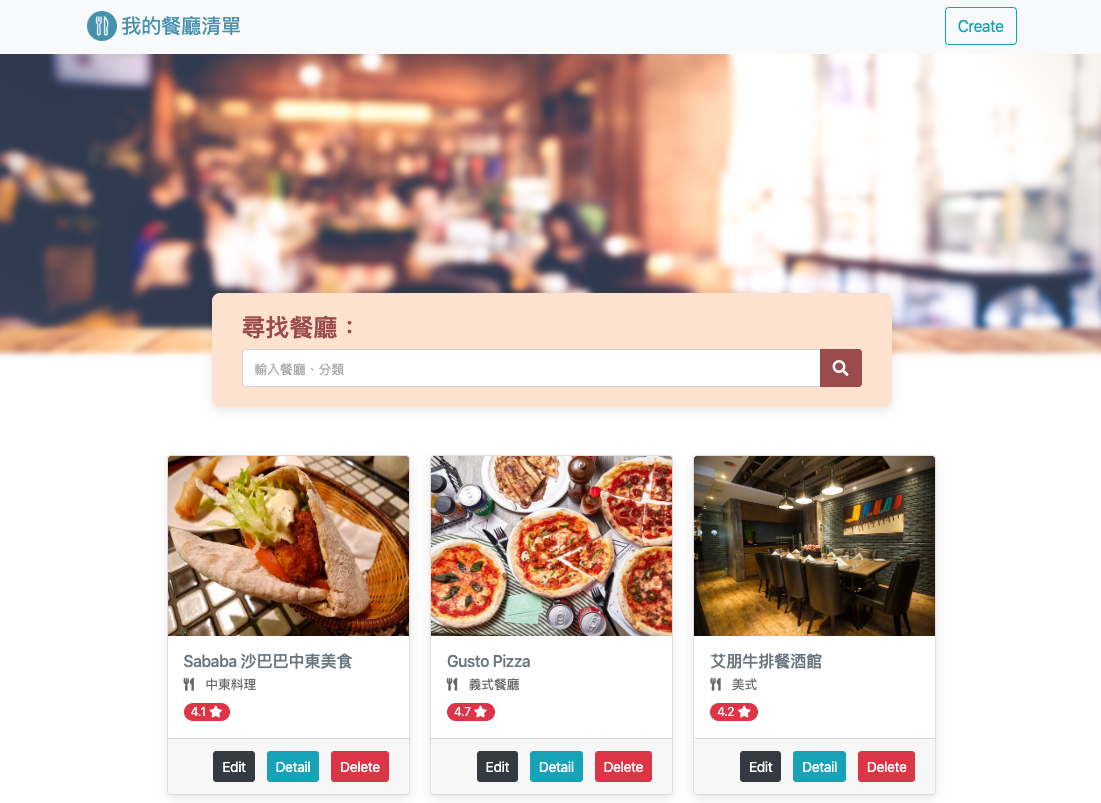
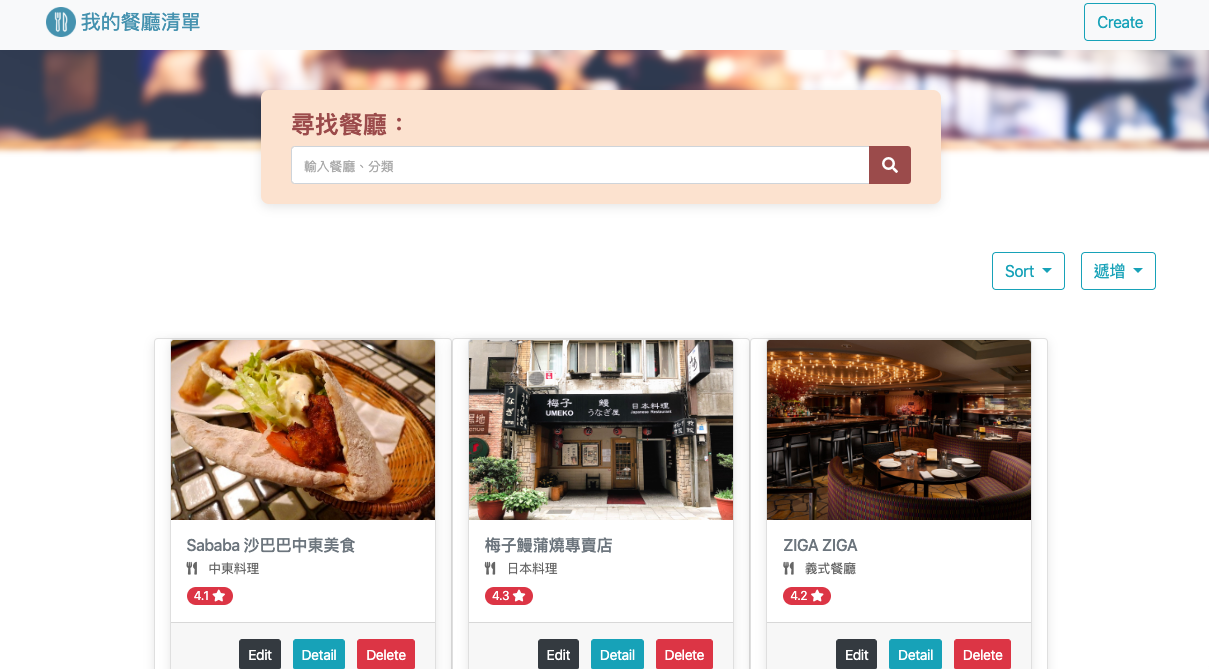
Add sort feature on index page and update index screenshot

diff --git a/routes/sort.js b/routes/sort.js
@@ -1,0 +1,88 @@
+const express = require('express')
+const router = express.Router()
+const Restaurant = require('../models/restaurant')
+const sortConditions = require('../public/javascripts/sortConditions')
+
+// 排序 Restaurant
+router.get('/:sortCondition/:sortName/:sortOrder/:sortOrderName', (req, res) => {
+  if (req.params.sortOrder === '1') {
+    if (req.params.sortCondition === 'name') {
+      Restaurant.find({})
+        .sort({ name: 1 })
+        .exec((err, restaurants) => {
+          if (err) return console.error(err)
+          return res.render('index', { restaurants, sortConditions, sortCondition: req.params.sortCondition, sortName: req.params.sortName, sortOrder: req.params.sortOrder, sortOrderName: req.params.sortOrderName })
+        })
+    }
+
+    else if (req.params.sortCondition === 'category') {
+      Restaurant.find({})
+        .sort({ category: 1 })
+        .exec((err, restaurants) => {
+          if (err) return console.error(err)
+          return res.render('index', { restaurants, sortConditions, sortCondition: req.params.sortCondition, sortName: req.params.sortName, sortOrder: req.params.sortOrder, sortOrderName: req.params.sortOrderName })
+        })
+    }
+
+    else if (req.params.sortCondition === 'location') {
+      Restaurant.find({})
+        .sort({ location: 1 })
+        .exec((err, restaurants) => {
+          if (err) return console.error(err)
+          return res.render('index', { restaurants, sortConditions, sortCondition: req.params.sortCondition, sortName: req.params.sortName, sortOrder: req.params.sortOrder, sortOrderName: req.params.sortOrderName })
+        })
+    }
+
+    else if (req.params.sortCondition === 'rating') {
+      Restaurant.find({})
+        .sort({ rating: 1 })
+        .exec((err, restaurants) => {
+          if (err) return console.error(err)
+          return res.render('index', { restaurants, sortConditions, sortCondition: req.params.sortCondition, sortName: req.params.sortName, sortOrder: req.params.sortOrder, sortOrderName: req.params.sortOrderName })
+        })
+    }
+  }
+
+  else if (req.params.sortOrder === '-1') {
+    if (req.params.sortCondition === 'name') {
+      Restaurant.find({})
+        .sort({ name: -1 })
+        .exec((err, restaurants) => {
+          if (err) return console.error(err)
+          return res.render('index', { restaurants, sortConditions, sortCondition: req.params.sortCondition, sortName: req.params.sortName, sortOrder: req.params.sortOrder, sortOrderName: req.params.sortOrderName })
+        })
+    }
+
+    else if (req.params.sortCondition === 'category') {
+      Restaurant.find({})
+        .sort({ category: -1 })
+        .exec((err, restaurants) => {
+          if (err) return console.error(err)
+          return res.render('index', { restaurants, sortConditions, sortCondition: req.params.sortCondition, sortName: req.params.sortName, sortOrder: req.params.sortOrder, sortOrderName: req.params.sortOrderName })
+        })
+    }
+
+    else if (req.params.sortCondition === 'location') {
+      Restaurant.find({})
+        .sort({ location: -1 })
+        .exec((err, restaurants) => {
+          if (err) return console.error(err)
+          return res.render('index', { restaurants, sortConditions, sortCondition: req.params.sortCondition, sortName: req.params.sortName, sortOrder: req.params.sortOrder, sortOrderName: req.params.sortOrderName })
+        })
+    }
+
+    else if (req.params.sortCondition === 'rating') {
+      Restaurant.find({})
+        .sort({ rating: -1 })
+        .exec((err, restaurants) => {
+          if (err) return console.error(err)
+          return res.render('index', { restaurants, sortConditions, sortCondition: req.params.sortCondition, sortName: req.params.sortName, sortOrder: req.params.sortOrder, sortOrderName: req.params.sortOrderName })
+        })
+    }
+  }
+
+
+})
+
+
+module.exports = router

diff --git a/routes/search.js b/routes/search.js
@@ -1,6 +1,7 @@
 const express = require('express')
 const router = express.Router()
 const Restaurant = require('../models/restaurant')
+const sortConditions = require('../public/javascripts/sortConditions')
 
 // 搜尋 Restaurant
 router.get('/', (req, res) => {
@@ -11,10 +12,11 @@ router.get('/', (req, res) => {
         { name: { $regex: keywordRegex, $options: "$i" } },
         { category: { $regex: keywordRegex } }
       ]
-    },
-    (err, restaurants) => {
+    })
+    .sort({ name: 1 })
+    .exec((err, restaurants) => {
       if (err) return console.error(err)
-      return res.render('index', { restaurants, keyword: req.query.keyword })
+      return res.render('index', { restaurants, keyword: req.query.keyword, sortConditions, sortCondition: req.params.sortCondition, sortName: req.params.sortName, sortOrder: req.params.sortOrder, sortOrderName: req.params.sortOrderName })
     })
 })
 

diff --git a/app.js b/app.js
@@ -15,7 +15,12 @@ const methodOverride = require('method-override')
 app.use(bodyParser.urlencoded({ extended: true }))
 
 // 告訴 express 使用 handlebars 當作 template engine 並預設 layout 是 main
-app.engine('handlebars', exphbs({ defaultLayout: 'main' }))
+app.engine('handlebars', exphbs({
+  defaultLayout: 'main',
+  helpers: {
+    ifEquals: function (arg1, arg2, options) { return (arg1 == arg2) ? options.fn(this) : options.inverse(this) }
+  }
+}))
 app.set('view engine', 'handlebars')
 
 // 設定 method-override
@@ -45,6 +50,7 @@ const Restaurant = require('./models/restaurant.js')
 app.use('/', require('./routes/home'))
 app.use('/restaurants', require('./routes/restaurant'))
 app.use('/search', require('./routes/search'))
+app.use('/sort', require('./routes/sort'))
 
 // 設定 express port 3000
 app.listen(3000, () => {

diff --git a/routes/home.js b/routes/home.js
@@ -1,12 +1,13 @@
 const express = require('express')
 const router = express.Router()
 const Restaurant = require('../models/restaurant')
+const sortConditions = require('../public/javascripts/sortConditions')
 
 // Restaurant 首頁
 router.get('/', (req, res) => {
   Restaurant.find((err, restaurants) => {
     if (err) return console.error(err)
-    return res.render('index', { restaurants: restaurants })
+    return res.render('index', { restaurants, sortConditions, sortCondition: req.params.sortCondition, sortName: req.params.sortName, sortOrder: req.params.sortOrder, sortOrderName: req.params.sortOrderName })
   })
 })
 

diff --git a/public/javascripts/sortConditions.js b/public/javascripts/sortConditions.js
@@ -1,0 +1,14 @@
+const sortConditions = {
+  sortInfos: [
+    { name: '名稱', condition: 'name' },
+    { name: '類別', condition: 'category' },
+    { name: '地區', condition: 'location' },
+    { name: '評分', condition: 'rating' }
+  ],
+  sortOrders: [
+    { orderName: '遞增', order: 1 },
+    { orderName: '遞減', order: -1 }
+  ]
+}
+
+module.exports = sortConditions
